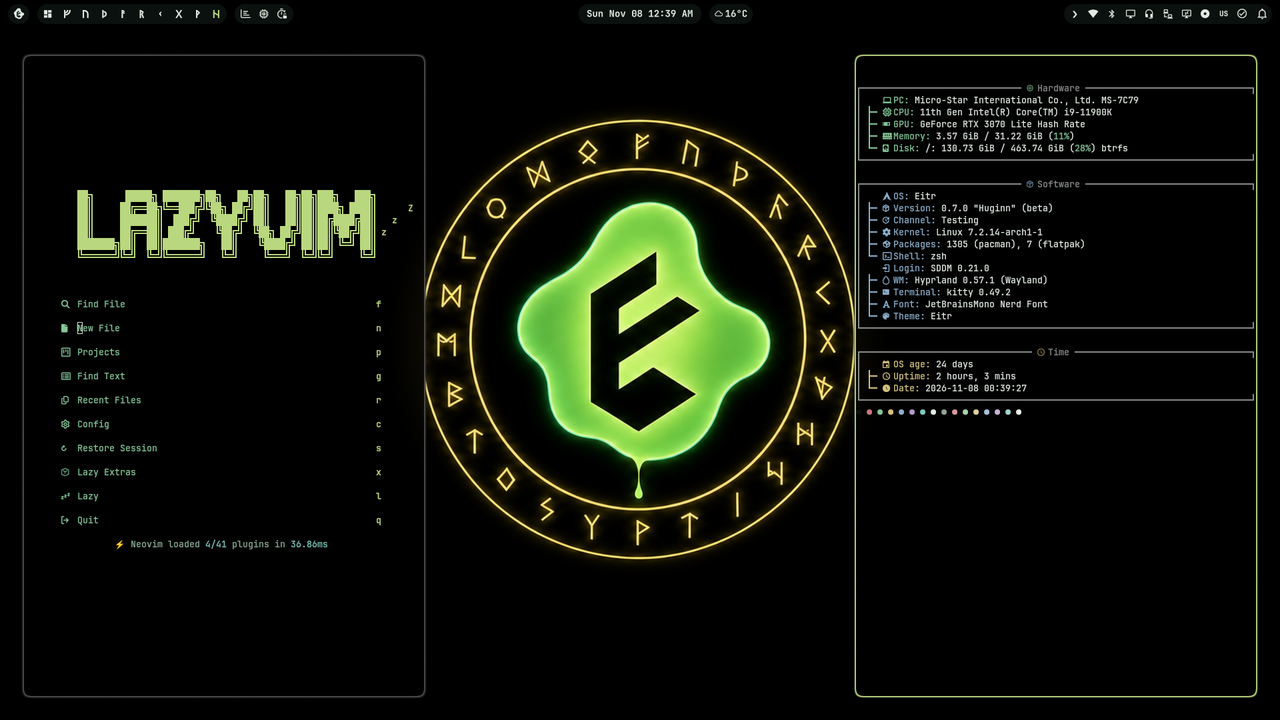
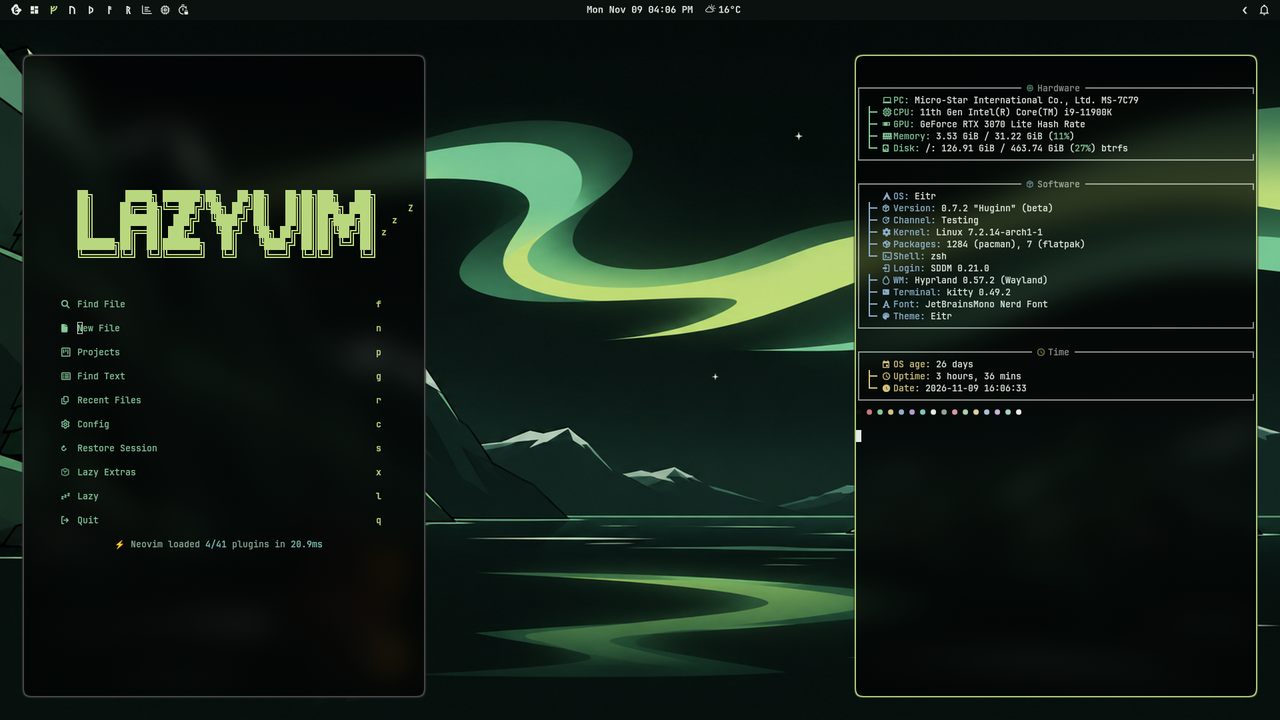
Themes: new desktop previews for Eitr, Eitr Light and Svartalfheim over their new first wallpapers

diff --git a/themes/ARTWORK.md b/themes/ARTWORK.md
@@ -113,7 +113,7 @@ Exact prompts, hashes, sizes and framing: `themes/artwork-batch-09.json`.
 Masters and reproducible exports: `branding/sources/wallpapers/batch-09/`.
 All batch 09 wallpapers are removed from Eitr; their prompts and native
 masters remain as provenance.
-Runestone and its live layers are numbered 04; the independent preview is preserved.
+Runestone and its live layers are numbered 04.
 
 The ten realms, Eitr and Eitr Light use local Neovim and VS Code themes from the same contrast-corrected palette roles. Run `python3 themes/build-vscode-themes.py` and its `--check` after palette changes; VSIX archives use fixed timestamps and content-derived versions. Afterglow and Wisteria retain their existing VS Code integrations.
 
@@ -130,12 +130,6 @@ Masters and the reproducible JPEG exporter live in
 not imply native 4K detail. The optional Runestone is omitted because the
 existing renderer embeds rune lettering and a logo and has no compatible light
 mode. Eitr remains the default theme.
-
-Eitr Light's preview is an isolated offscreen capture of the production Calendar
-panel over Primordial Drop, rather than a live desktop capture. Reproduce with
-`EITR_PANEL_REVIEW_RENDERS=/tmp/eitr-light-review python3 quickshell/desktop-bar/tests/render_panel_motion.py --theme eitr-light --panels CalendarMenu --desktop-preview`.
-Copy the resulting `CalendarMenu-eitr-light.png` to its `preview.png`
-after visual inspection. The artwork exporter does not rewrite panel captures.
 
 ## Eitr and Eitr Light — Batch 12
 
@@ -155,7 +149,7 @@ filenames, native dimensions, hashes and subject-centred framing. The third-part
 and `export.py` live under `branding/sources/wallpapers/batch-12/`. Separate
 generated sideways extensions provide the panoramas. Shared Lanczos exports
 are 3840×2160 and 3440×1440, without stretching or padding; not native 4K detail.
-Independent theme previews remain unchanged; website cards use each theme's first wallpaper.
+Website cards use each theme's first wallpaper.
 
 ## Realm curation — Batch 13
 
